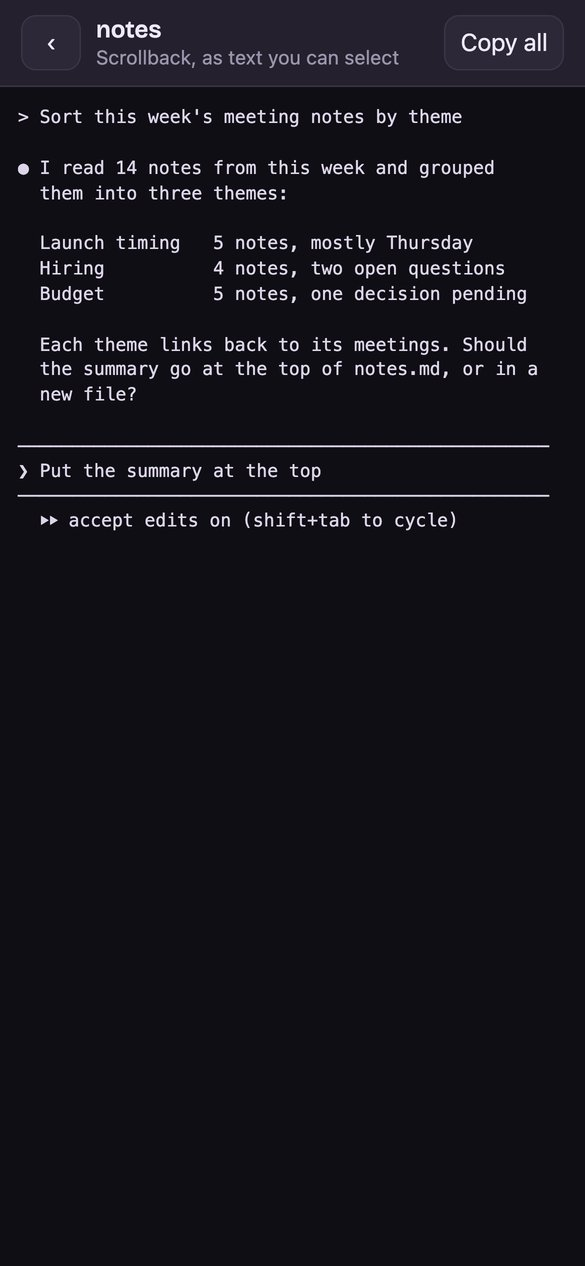
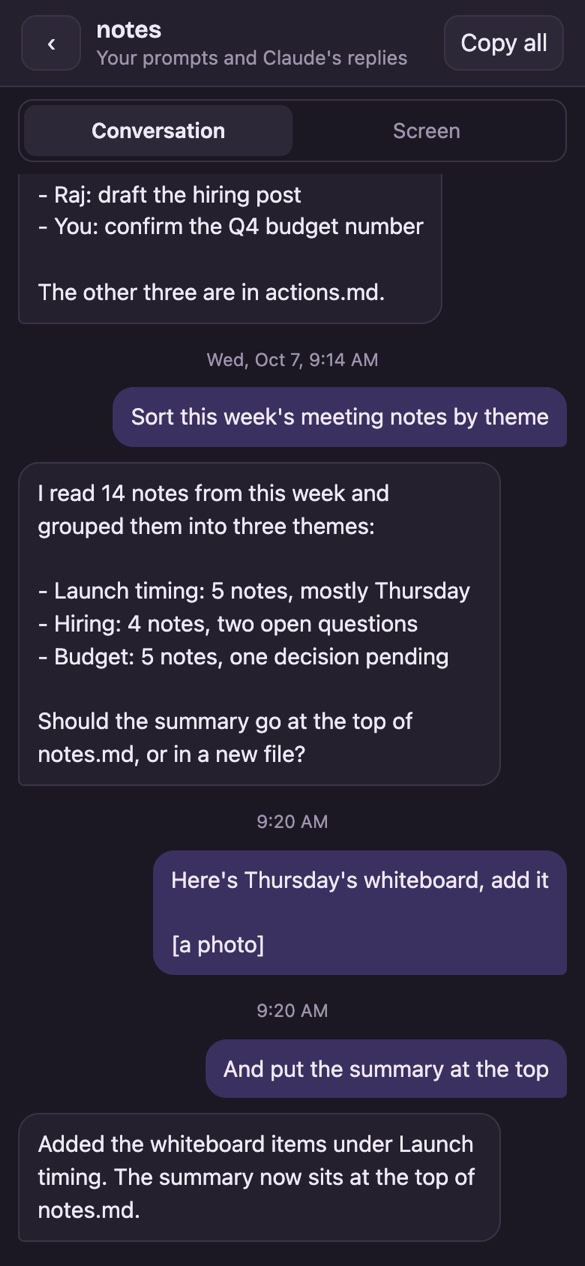
Phone: History shows the conversation, your prompts and Claude's replies
The terminal cannot scroll back on a phone (tmux holds the scrollback), so
History now opens on a Conversation view read from Claude Code's transcript:
every typed prompt (slash commands, photos, and messages sent mid-turn
included) and every text reply, without the tool calls, newest at the
bottom. The plain scrollback stays under a Screen tab.

Claude-Session: https://claude.ai/code/session_01A6N2menxkiXjtssBJSs2JP

diff --git a/server.js b/server.js
@@ -489,27 +489,39 @@ function renameWindow(s, label) {
   return { status: 200, ok: true, label: name };
 }
 
-// Claude's last reply in a window: every text block it wrote after the last message you typed, read from
-// the end of Claude Code's own transcript (~/.claude/projects/<project>/<conversation>.jsonl).
-function lastReply(s) {
-  const c = windowClaude(s);
-  if (!c) return { status: 409, error: 'Claude Code is not running in this window' };
-  let file = null;
+// Claude Code's own transcript for the conversation running in a window
+// (~/.claude/projects/<project>/<conversation>.jsonl), or null.
+function transcriptFile(c) {
   try {
     const projects = path.join(CLAUDE_DIR, 'projects');
     for (const d of fs.readdirSync(projects)) {
       const f = path.join(projects, d, `${c.sessionId}.jsonl`);
-      if (fs.existsSync(f)) { file = f; break; }
+      if (fs.existsSync(f)) return f;
     }
   } catch {}
-  if (!file) return { status: 404, error: 'no transcript yet' };
+  return null;
+}
+
+// The last `max` bytes of a file as whole lines.
+function tailLines(file, max) {
   const size = fs.statSync(file).size;
   const fd = fs.openSync(file, 'r');
-  const buf = Buffer.alloc(Math.min(size, 1024 * 1024));
+  const buf = Buffer.alloc(Math.min(size, max));
   fs.readSync(fd, buf, 0, buf.length, size - buf.length);
   fs.closeSync(fd);
   const lines = buf.toString('utf8').split('\n');
   if (buf.length < size) lines.shift(); // the first line may be cut
+  return lines;
+}
+
+// Claude's last reply in a window: every text block it wrote after the last message you typed, read from
+// the end of the window's transcript.
+function lastReply(s) {
+  const c = windowClaude(s);
+  if (!c) return { status: 409, error: 'Claude Code is not running in this window' };
+  const file = transcriptFile(c);
+  if (!file) return { status: 404, error: 'no transcript yet' };
+  const lines = tailLines(file, 1024 * 1024);
   const texts = [];
   for (let i = lines.length - 1; i >= 0; i--) {
     let d;
@@ -527,6 +539,65 @@ function lastReply(s) {
   let text = texts.join('\n\n');
   if (text.length > 6000) text = `…${text.slice(-6000)}`;
   return { status: 200, text, at: fs.statSync(file).mtimeMs };
+}
+
+// What you typed, as it should read in the conversation: a slash command as "/name args", and nothing
+// for Claude Code's own bookkeeping (command output, caveats, reminders).
+function typedText(content) {
+  const parts = typeof content === 'string' ? [{ type: 'text', text: content }] : Array.isArray(content) ? content : [];
+  const out = [];
+  let images = 0;
+  for (const x of parts) {
+    if (x?.type === 'image') { images++; continue; }
+    if (x?.type !== 'text' || !x.text.trim()) continue;
+    const t = x.text.trim();
+    const cmd = t.match(/<command-name>([^<]*)<\/command-name>/);
+    if (cmd) {
+      const args = t.match(/<command-args>([^<]*)<\/command-args>/)?.[1].trim();
+      out.push(args ? `${cmd[1]} ${args}` : cmd[1]);
+    } else if (!t.startsWith('<') && !t.startsWith('[Image')) out.push(t);
+  }
+  if (images) out.push(images === 1 ? '[a photo]' : `[${images} photos]`);
+  return out.join('\n\n');
+}
+
+// The conversation in a window, oldest first: what you typed and what Claude wrote back, without the tool
+// calls in between. Read from the last 64 MB of the transcript (a long session with screenshots runs past
+// 40 MB). Lines that cannot hold a prompt or a reply are skipped before parsing: tool results, which are
+// most of the file, carry a tool_use_id. A message sent while Claude was working shows up as a queued
+// command rather than as a user message.
+function conversation(s) {
+  const c = windowClaude(s);
+  if (!c) return { status: 409, error: 'Claude Code is not running in this window' };
+  const file = transcriptFile(c);
+  if (!file) return { status: 404, error: 'no transcript yet' };
+  const MAX = 64 * 1024 * 1024;
+  const lines = tailLines(file, MAX);
+  const items = [];
+  const add = (who, text, at) => {
+    const last = items[items.length - 1];
+    if (who === 'claude' && last?.who === 'claude') { last.text += `\n\n${text}`; return; }
+    items.push({ who, text, at });
+  };
+  for (const line of lines) {
+    const user = /"type":\s*"user"/.test(line) && !line.includes('"tool_use_id"');
+    if (!user && !line.includes('"queued_command"') && !(/"type":\s*"assistant"/.test(line) && /"type":\s*"text"/.test(line))) continue;
+    let d;
+    try { d = JSON.parse(line); } catch { continue; }
+    if (d.isSidechain) continue;
+    const content = d.message?.content;
+    if (d.type === 'user' && !d.isMeta) {
+      if (d.isCompactSummary) { items.push({ who: 'note', text: 'Earlier messages were summarized to save space.', at: d.timestamp }); continue; }
+      const t = typedText(content);
+      if (t) add('you', t, d.timestamp);
+    } else if (d.type === 'attachment' && d.attachment?.type === 'queued_command' && d.attachment.origin?.kind === 'human') {
+      const t = typedText(d.attachment.prompt);
+      if (t) add('you', t, d.timestamp);
+    } else if (d.type === 'assistant' && Array.isArray(content)) {
+      for (const x of content) if (x?.type === 'text' && x.text.trim()) add('claude', x.text.trim(), d.timestamp);
+    }
+  }
+  return { status: 200, items: items.slice(-300), cut: items.length > 300 || fs.statSync(file).size > MAX };
 }
 
 // The window's scrollback as plain text, for reading and copying on a phone.
@@ -1160,7 +1231,7 @@ const server = http.createServer(async (req, res) => {
     if (!s || !s.tmux || s.exited) return send(res, 404, { error: 'no such window' });
     try { return send(res, 200, windowHistory(s.id), 'text/plain; charset=utf-8'); } catch { return send(res, 500, { error: 'could not read the window' }); }
   }
-  const act = url.pathname.match(/^\/api\/sessions\/([\w-]+)\/(prompt|answer|changes|upload|key|rename|mute|last)$/);
+  const act = url.pathname.match(/^\/api\/sessions\/([\w-]+)\/(prompt|answer|changes|upload|key|rename|mute|last|conversation)$/);
   if (act) {
     const s = sessions.get(act[1]);
     if (!s || s.exited) return send(res, 404, { error: 'no such window' });
@@ -1194,6 +1265,9 @@ const server = http.createServer(async (req, res) => {
     }
     if (act[2] === 'last' && req.method === 'GET') {
       try { const { status, ...r } = lastReply(s); return send(res, status, r); } catch { return send(res, 500, { error: 'could not read the transcript' }); }
+    }
+    if (act[2] === 'conversation' && req.method === 'GET') {
+      try { const { status, ...r } = conversation(s); return send(res, status, r); } catch { return send(res, 500, { error: 'could not read the transcript' }); }
     }
     if (act[2] === 'changes' && req.method === 'GET') {
       const { status, ...r } = await windowChanges(s);

diff --git a/public/m.html b/public/m.html
@@ -192,6 +192,16 @@
               font:12px/1.4 var(--mono); white-space:pre-wrap; word-break:break-word; color:#ddd6ea;
               -webkit-user-select:text; user-select:text; }
 
+  #histseg { margin:8px 12px; flex:none; }
+  /* Conversation: your prompts and Claude's replies from the transcript, without the tool calls */
+  #chat { flex:1; overflow:auto; padding:4px 12px calc(16px + env(safe-area-inset-bottom)); display:flex; flex-direction:column; gap:10px;
+          -webkit-user-select:text; user-select:text; }
+  #chat .msg { white-space:pre-wrap; word-break:break-word; font-size:15px; line-height:1.45; padding:9px 12px; border-radius:14px; max-width:88%; }
+  #chat .you { align-self:flex-end; background:#3b3160; border-bottom-right-radius:4px; }
+  #chat .claude { align-self:flex-start; background:var(--panel); border:1px solid var(--rail); border-bottom-left-radius:4px; }
+  #chat .note, #chat .when { align-self:center; color:var(--muted); font-size:12px; text-align:center; }
+  #chat .when { margin-top:6px; }
+
   #toast { position:fixed; left:12px; right:12px; top:calc(10px + env(safe-area-inset-top)); z-index:30; background:var(--raise);
            border:1px solid var(--fence); border-radius:12px; padding:12px 14px; box-shadow:0 8px 24px #0009; }
 </style>
@@ -232,9 +242,11 @@
 <section id="histview" class="view" hidden>
   <header>
     <button class="iconbtn" id="histback" aria-label="Back to the terminal">&lsaquo;</button>
-    <div class="grow"><div class="title" id="htitle"></div><div class="sub">Scrollback, as text you can select</div></div>
+    <div class="grow"><div class="title" id="htitle"></div><div class="sub" id="hsub"></div></div>
     <button class="iconbtn" id="histcopy">Copy all</button>
   </header>
+  <div class="seg" id="histseg"><button data-h="chat">Conversation</button><button data-h="screen">Screen</button></div>
+  <div id="chat" hidden></div>
   <pre id="histtext"></pre>
 </section>
 
@@ -837,24 +849,70 @@ msg.addEventListener('keydown', (e) => {
   if (e.key === 'Enter' && !e.shiftKey && !e.isComposing) { e.preventDefault(); sendMsg(); }
 });
 
-// ---- History: the window's scrollback as plain text ----
+// ---- History: the conversation from Claude Code's transcript, or the window's scrollback as plain text ----
+// The terminal cannot be scrolled back on a phone (tmux holds the scrollback, not the page), so this is where
+// earlier prompts and replies are read.
+let histMode = load('corral.m.hist', 'chat');
 async function showHistory() {
   if (!current) return;
   $('#htitle').textContent = current.info.label;
-  $('#histtext').textContent = 'Loading…';
   $('#termview').hidden = true; $('#histview').hidden = false;
   history.pushState({ hist: true }, '');
-  try {
-    const r = await fetch(`/api/sessions/${encodeURIComponent(current.info.id)}/history`);
-    $('#histtext').textContent = r.ok ? await r.text() : 'This window has no saved scrollback.';
-  } catch { $('#histtext').textContent = 'Could not load the scrollback.'; }
+  const w = windows.find((x) => x.id === current.info.id);
+  // Without Claude running there is no transcript; the scrollback is all there is.
+  $('#histseg').hidden = !w?.claude;
+  loadHistory(w?.claude ? histMode : 'screen');
+}
+
+async function loadHistory(mode) {
+  const id = current?.info.id;
+  if (!id) return;
+  for (const b of $('#histseg').children) b.classList.toggle('on', b.dataset.h === mode);
+  $('#chat').hidden = mode !== 'chat'; $('#histtext').hidden = mode === 'chat';
+  $('#hsub').textContent = mode === 'chat' ? 'Your prompts and Claude\'s replies' : 'Scrollback, as text you can select';
+  if (mode === 'chat') {
+    const chat = $('#chat');
+    chat.replaceChildren(h('div', { class: 'note' }, 'Loading…'));
+    let r;
+    try { r = await api(`/api/sessions/${encodeURIComponent(id)}/conversation`); }
+    catch { return chat.replaceChildren(h('div', { class: 'note' }, 'Could not read the conversation. Try Screen.')); }
+    if (current?.info.id !== id) return;
+    const items = r.items || [];
+    if (!items.length) return chat.replaceChildren(h('div', { class: 'note' }, 'Nothing typed in this conversation yet.'));
+    const els = r.cut ? [h('div', { class: 'note' }, 'Older messages are not shown.')] : [];
+    let lastDay = '';
+    for (const it of items) {
+      const at = it.at ? new Date(it.at) : null;
+      if (at && it.who === 'you') {
+        const day = at.toDateString();
+        const time = at.toLocaleTimeString([], { hour: 'numeric', minute: '2-digit' });
+        els.push(h('div', { class: 'when' }, day === lastDay ? time : `${at.toLocaleDateString([], { weekday: 'short', month: 'short', day: 'numeric' })}, ${time}`));
+        lastDay = day;
+      }
+      els.push(h('div', { class: `msg ${it.who}` }, it.text));
+    }
+    chat.replaceChildren(...els);
+    chat.scrollTop = chat.scrollHeight;
+    return;
+  }
   const pre = $('#histtext');
+  pre.textContent = 'Loading…';
+  try {
+    const r = await fetch(`/api/sessions/${encodeURIComponent(id)}/history`);
+    pre.textContent = r.ok ? await r.text() : 'This window has no saved scrollback.';
+  } catch { pre.textContent = 'Could not load the scrollback.'; }
   pre.scrollTop = pre.scrollHeight;
 }
+for (const b of $('#histseg').children) b.onclick = () => { histMode = b.dataset.h; store('corral.m.hist', histMode); loadHistory(histMode); };
 $('#histbtn').onclick = showHistory;
 $('#histback').onclick = () => history.back();
-$('#histcopy').onclick = () => navigator.clipboard.writeText($('#histtext').textContent)
-  .then(() => toast('Copied the scrollback.')).catch(() => toast('Could not copy. Select the text instead.'));
+$('#histcopy').onclick = () => {
+  const chat = !$('#chat').hidden;
+  const text = chat ? [...$('#chat').querySelectorAll('.msg')].map((m) => `${m.classList.contains('you') ? 'You' : 'Claude'}: ${m.textContent}`).join('\n\n')
+    : $('#histtext').textContent;
+  navigator.clipboard.writeText(text)
+    .then(() => toast(chat ? 'Copied the conversation.' : 'Copied the scrollback.')).catch(() => toast('Could not copy. Select the text instead.'));
+};
 
 // ---- Photos: upload to the Mac, then paste the file's path, which Claude Code attaches as [Image #n] ----
 // A photo is scaled to at most 2048 pixels on its long side and sent as JPEG, so a 12-megapixel shot

diff --git a/docs/index.html b/docs/index.html
@@ -393,8 +393,8 @@
         </figure>
         <figure>
           <img src="img/phone-history.jpg" width="585" height="1266" loading="lazy"
-               alt="The History view of the notes window: its scrollback as plain text with a Copy all button.">
-          <figcaption><b>History.</b> The scrollback as plain text to select, or copy in one tap.</figcaption>
+               alt="The History view of the notes window, on Conversation: your prompts as purple bubbles on the right with their times, and Claude's replies on the left, with a Screen tab beside it and a Copy all button.">
+          <figcaption><b>History.</b> Scroll back through your prompts and Claude's replies, or the plain scrollback.</figcaption>
         </figure>
         <figure>
           <img src="img/phone-permission.jpg" width="585" height="1266" loading="lazy"

diff --git a/README.md b/README.md
@@ -55,7 +55,7 @@ Project site, with screenshots and use cases: <https://ismayc.github.io/corral/>
   sends Claude Code's suggested next prompt (Tab, then Enter), a message box
   that works with dictation, a photo button that hands Claude a picture, a
   Changes view of the project's uncommitted git diff, and a History view of
-  the scrollback as text you can select. When Claude Code asks for
+  the conversation (your prompts and Claude's replies) or the scrollback. When Claude Code asks for
   permission, its request and answers (Yes, don't ask again, Deny) appear on
   the window's card, and the phone can get a push notification for it, or
   when a turn ends, even with the page closed. Cards also offer Stop, the
@@ -123,7 +123,7 @@ To use Corral from your phone or another computer, see the next section.
   <img src="docs/img/phone-list.jpg" width="200" alt="Corral's phone page listing four windows: notes and dashboard under Waiting for you, api-server under Working, and a blog shell, each with its folder.">
   <img src="docs/img/phone-terminal.jpg" width="200" alt="The notes window on a phone, with Changes and History buttons at the top: Claude Code's reply, its input box with a dimmed suggested prompt, and a row of keys starting with Use suggestion, Type, Esc, Shift-Tab, and Tab, above a row of quick replies, a camera button, a message box, and a Send button.">
   <img src="docs/img/phone-start.jpg" width="200" alt="The Start in a project sheet: a choice of Claude Code, Last session, or Shell, a search box, and the list of herdr spaces with their status dots.">
-  <img src="docs/img/phone-history.jpg" width="200" alt="The History view of the notes window: its scrollback as plain text with a Copy all button.">
+  <img src="docs/img/phone-history.jpg" width="200" alt="The History view of the notes window, on Conversation: your prompts as purple bubbles on the right with their times, and Claude's replies on the left, with a Screen tab beside it and a Copy all button.">
   <img src="docs/img/phone-permission.jpg" width="200" alt="The phone list with data-lab at the top, marked Needs permission in red. Its card shows the command Claude wants to run, then buttons for Yes, Yes and don't ask again, and Deny.">
   <img src="docs/img/phone-changes.jpg" width="200" alt="The Changes view for the dashboard project: the changed files, api.js and a new empty.test.js, then the diff with removed lines in red and added lines in green.">
 </p>
@@ -197,8 +197,13 @@ network between your own devices.
   in the bottom bar of Corral on the Mac, so it is there when you sit down. A
   space that already has a window is marked **Open**, and tapping it says so
   instead of starting a second one.
-- **Read back.** History shows the window's scrollback as plain text you can
-  select, or copy in one tap.
+- **Read back.** The terminal itself does not scroll back on a phone, so
+  History does it. **Conversation** lists every prompt you typed (including
+  ones sent from the Mac, slash commands, and messages sent while Claude was
+  working) and every reply, read from Claude Code's transcript without the
+  tool calls in between, newest at the bottom; scroll up for older ones.
+  **Screen** shows the window's scrollback as plain text. Either one can be
+  selected, or copied in one tap.
 - **Restore** the windows from before a Mac restart.
 
 On the Mac's desktop page, a window with a permission prompt gets the same
